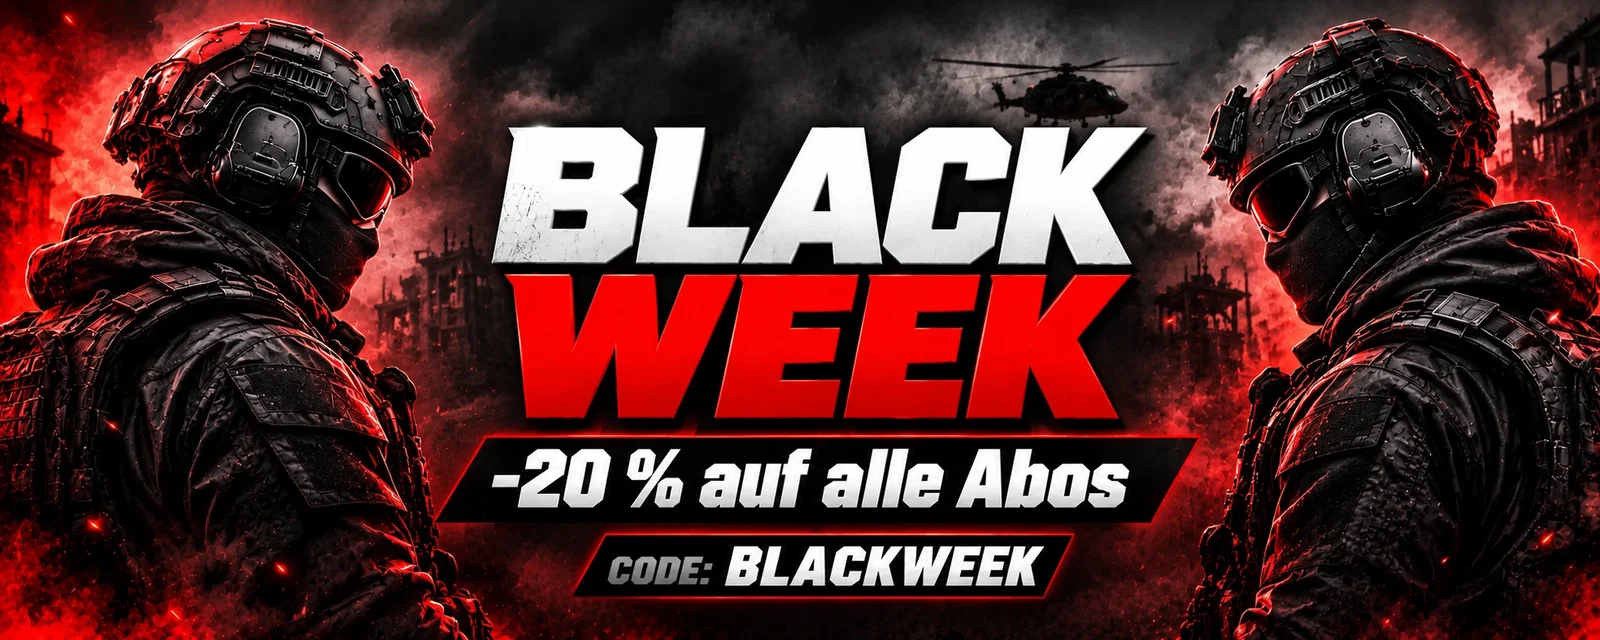
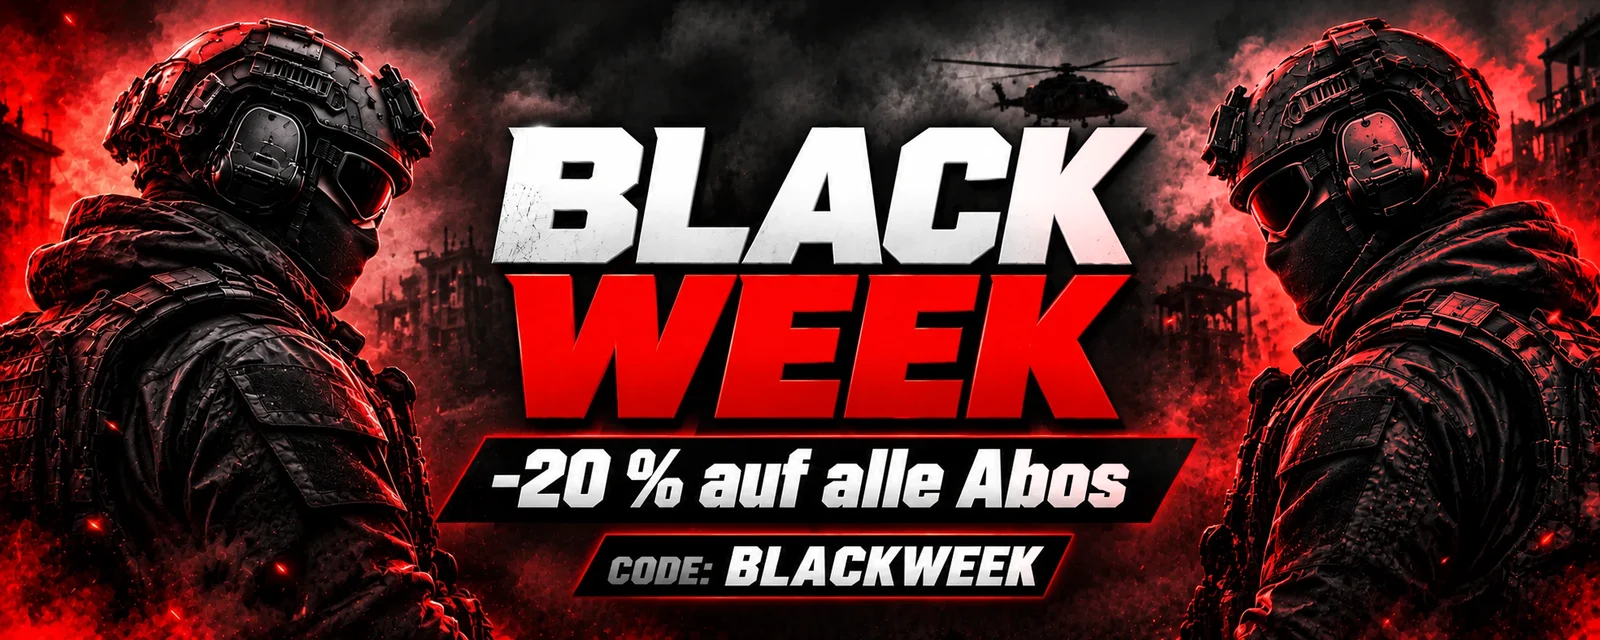
Webseite: Black-Week-Bild rechts gleich viel Glow wie links

diff --git a/js/index1.js b/js/index1.js
@@ -402,7 +402,7 @@ function zeigePromo() {
   };
   document.getElementById("prTxt2").textContent = PROMO.code;
   document.getElementById("prCode").onclick = kop; document.getElementById("prCode2").onclick = kop;
-  { const BILD = { BLACKWEEK: "img/aktion-blackweek.webp?v=1" }, src = BILD[(PROMO.code || "").toUpperCase()]; let a = document.getElementById("prBild");
+  { const BILD = { BLACKWEEK: "img/aktion-blackweek.webp?v=2" }, src = BILD[(PROMO.code || "").toUpperCase()]; let a = document.getElementById("prBild");
     if (src) { if (!a) { a = document.createElement("a"); a.id = "prBild"; a.href = "#preise"; a.className = "pbild"; a.innerHTML = '<img alt="" width="1600" height="640" decoding="async">'; el.parentNode.insertBefore(a, el); }
       a.querySelector("img").src = src; a.querySelector("img").alt = PROMO.titel + ": " + PROMO.pct + " % mit Code " + PROMO.code; el.style.display = "none"; const bd = document.getElementById("prBald"); if (bd) bd.style.display = "none"; }
     else if (a) { a.remove(); el.style.display = ""; const bd = document.getElementById("prBald"); if (bd) bd.style.display = ""; } }

diff --git a/index.html b/index.html
@@ -811,7 +811,7 @@ details{position:relative}details[open]{border-color:#2f4f8a}
 
 <script src="world.js?v=4"></script>
 <button type="button" id="toTop" aria-label="Nach oben"><svg viewBox="0 0 24 24" fill="none" stroke="currentColor" stroke-width="2.4" stroke-linecap="round" stroke-linejoin="round"><path d="M12 19V5M5.5 11.5 12 5l6.5 6.5"/></svg></button>
-<script src="js/index1.js?v=125"></script>
+<script src="js/index1.js?v=126"></script>
 <script src="js/index2.js?v=1"></script>
 <a class="petab" href="https://www.provenexpert.com/game-booster-vpn/zam6/" target="_blank" rel="noopener" aria-label="Game Booster VPN auf ProvenExpert bewerten"><b class="pst">★<br>★<br>★<br>★<br>★</b><span>Bewerte uns</span><small>auf ProvenExpert</small></a>
 <script src="js/features.js?v=9"></script>
